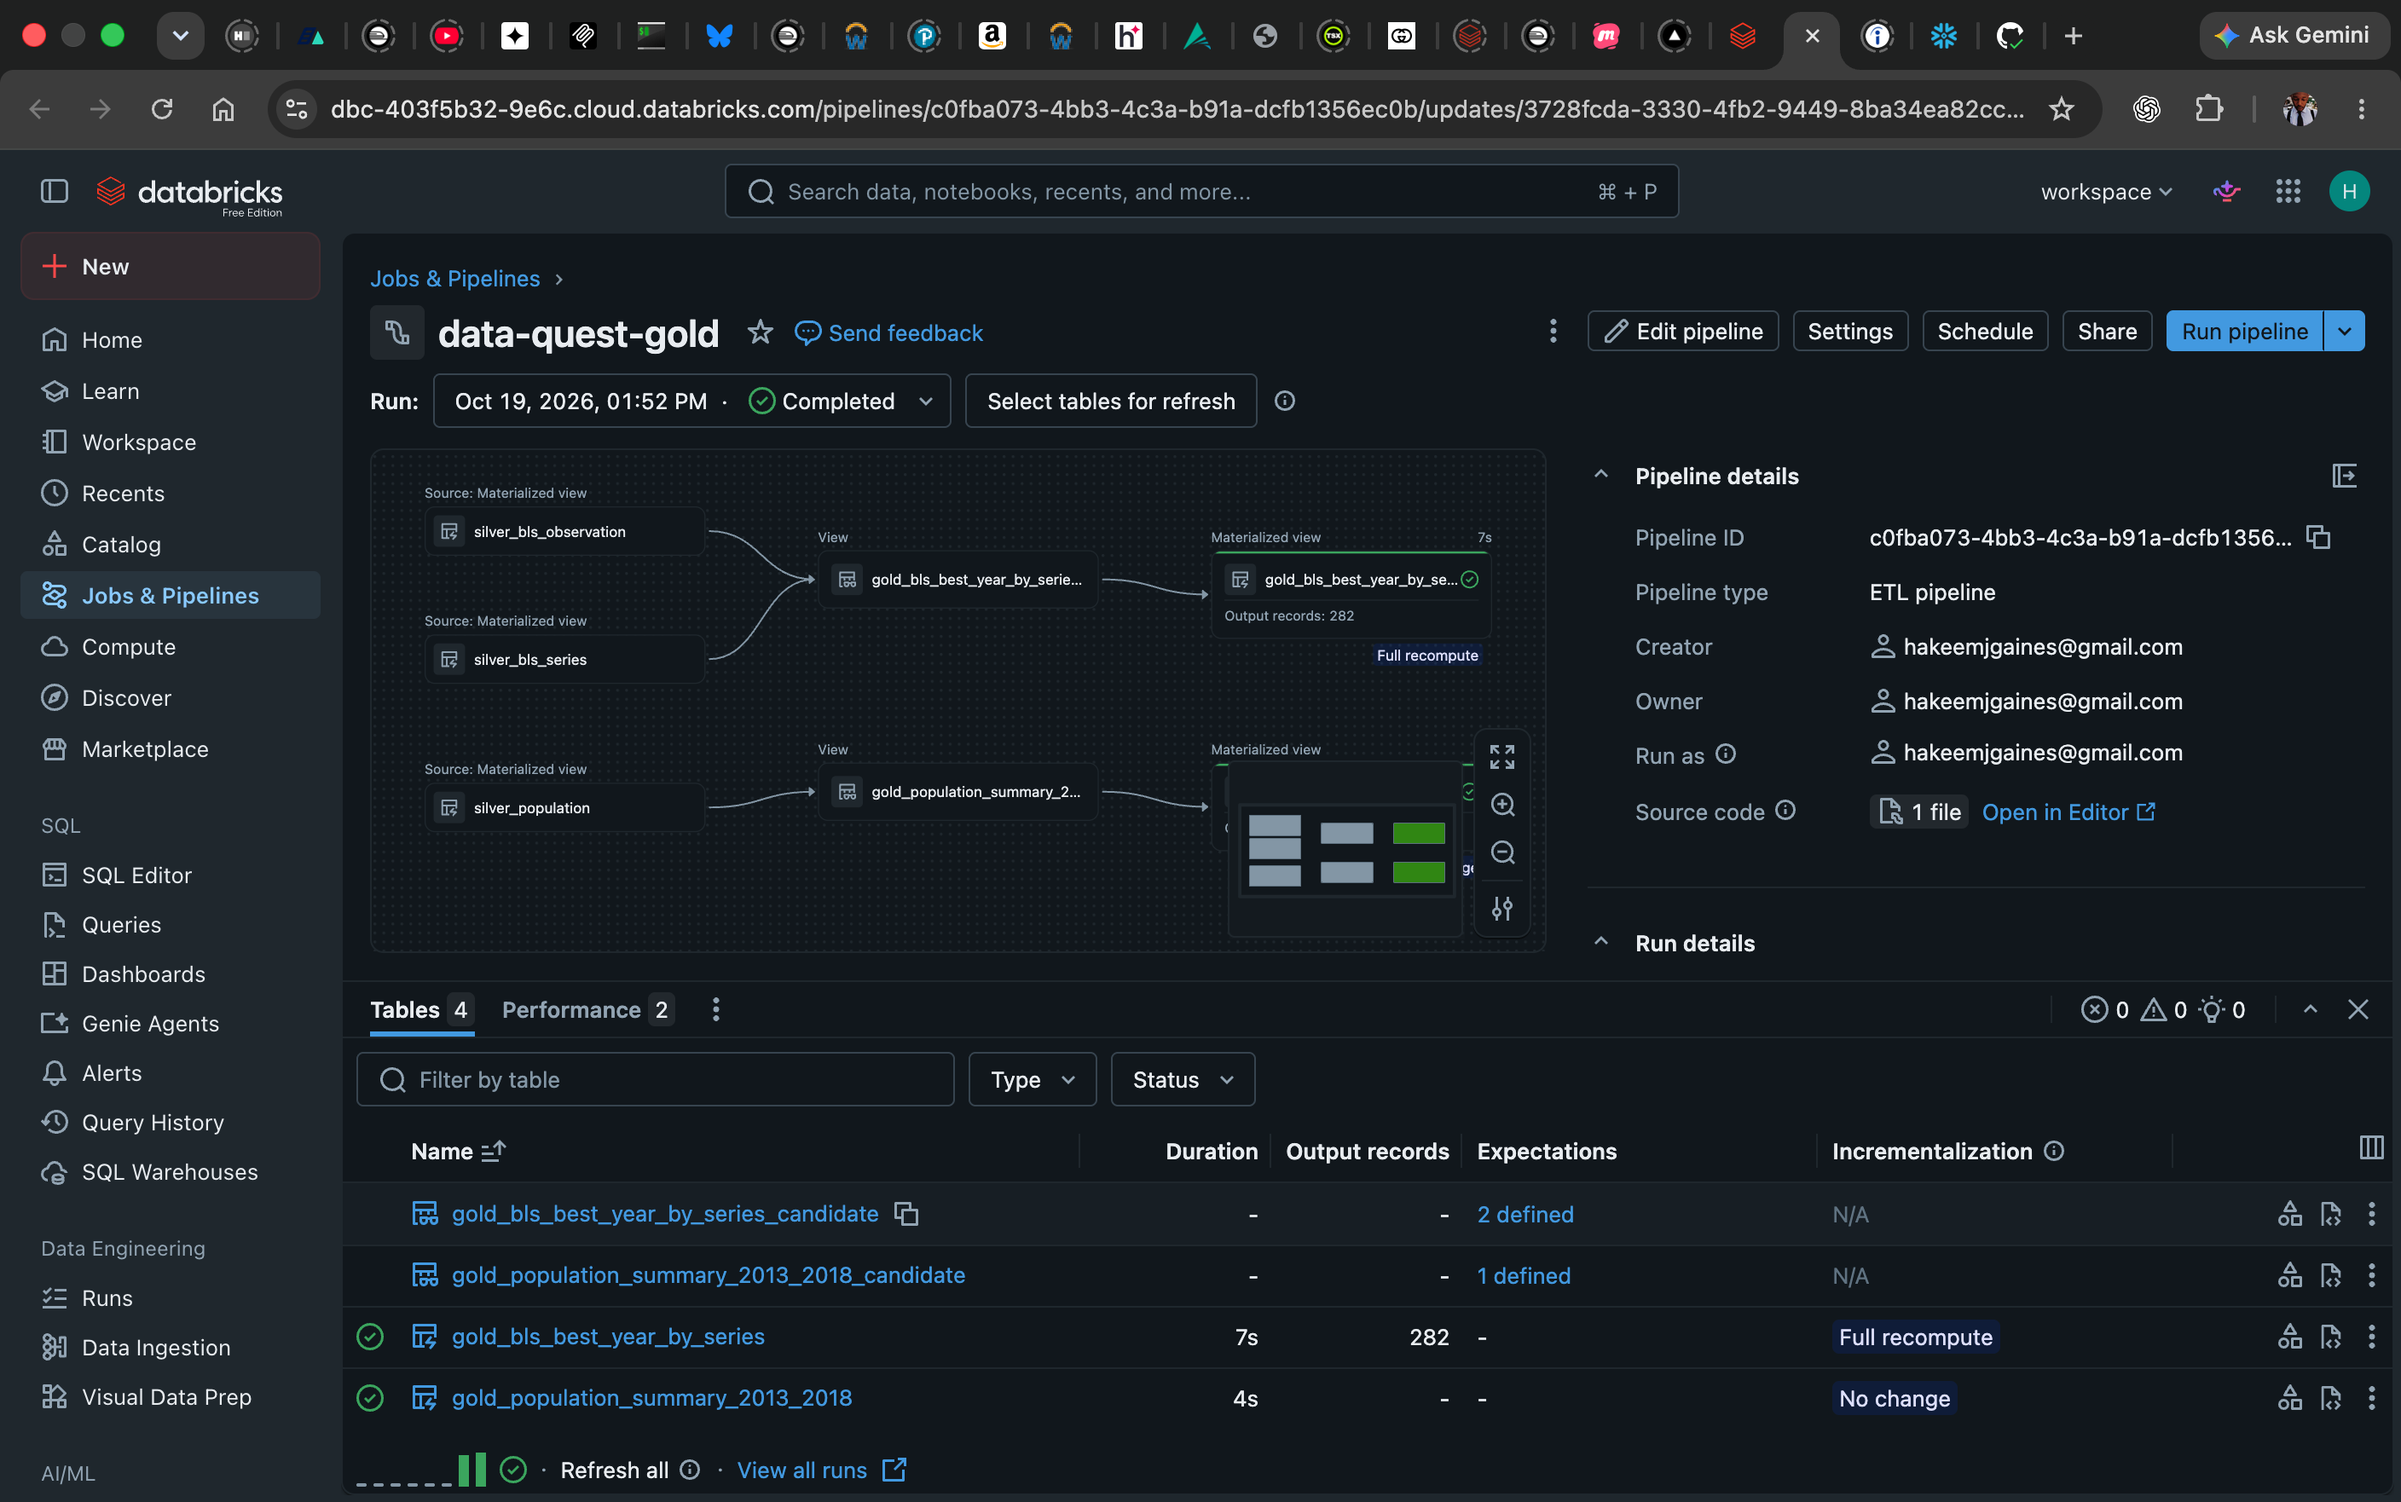
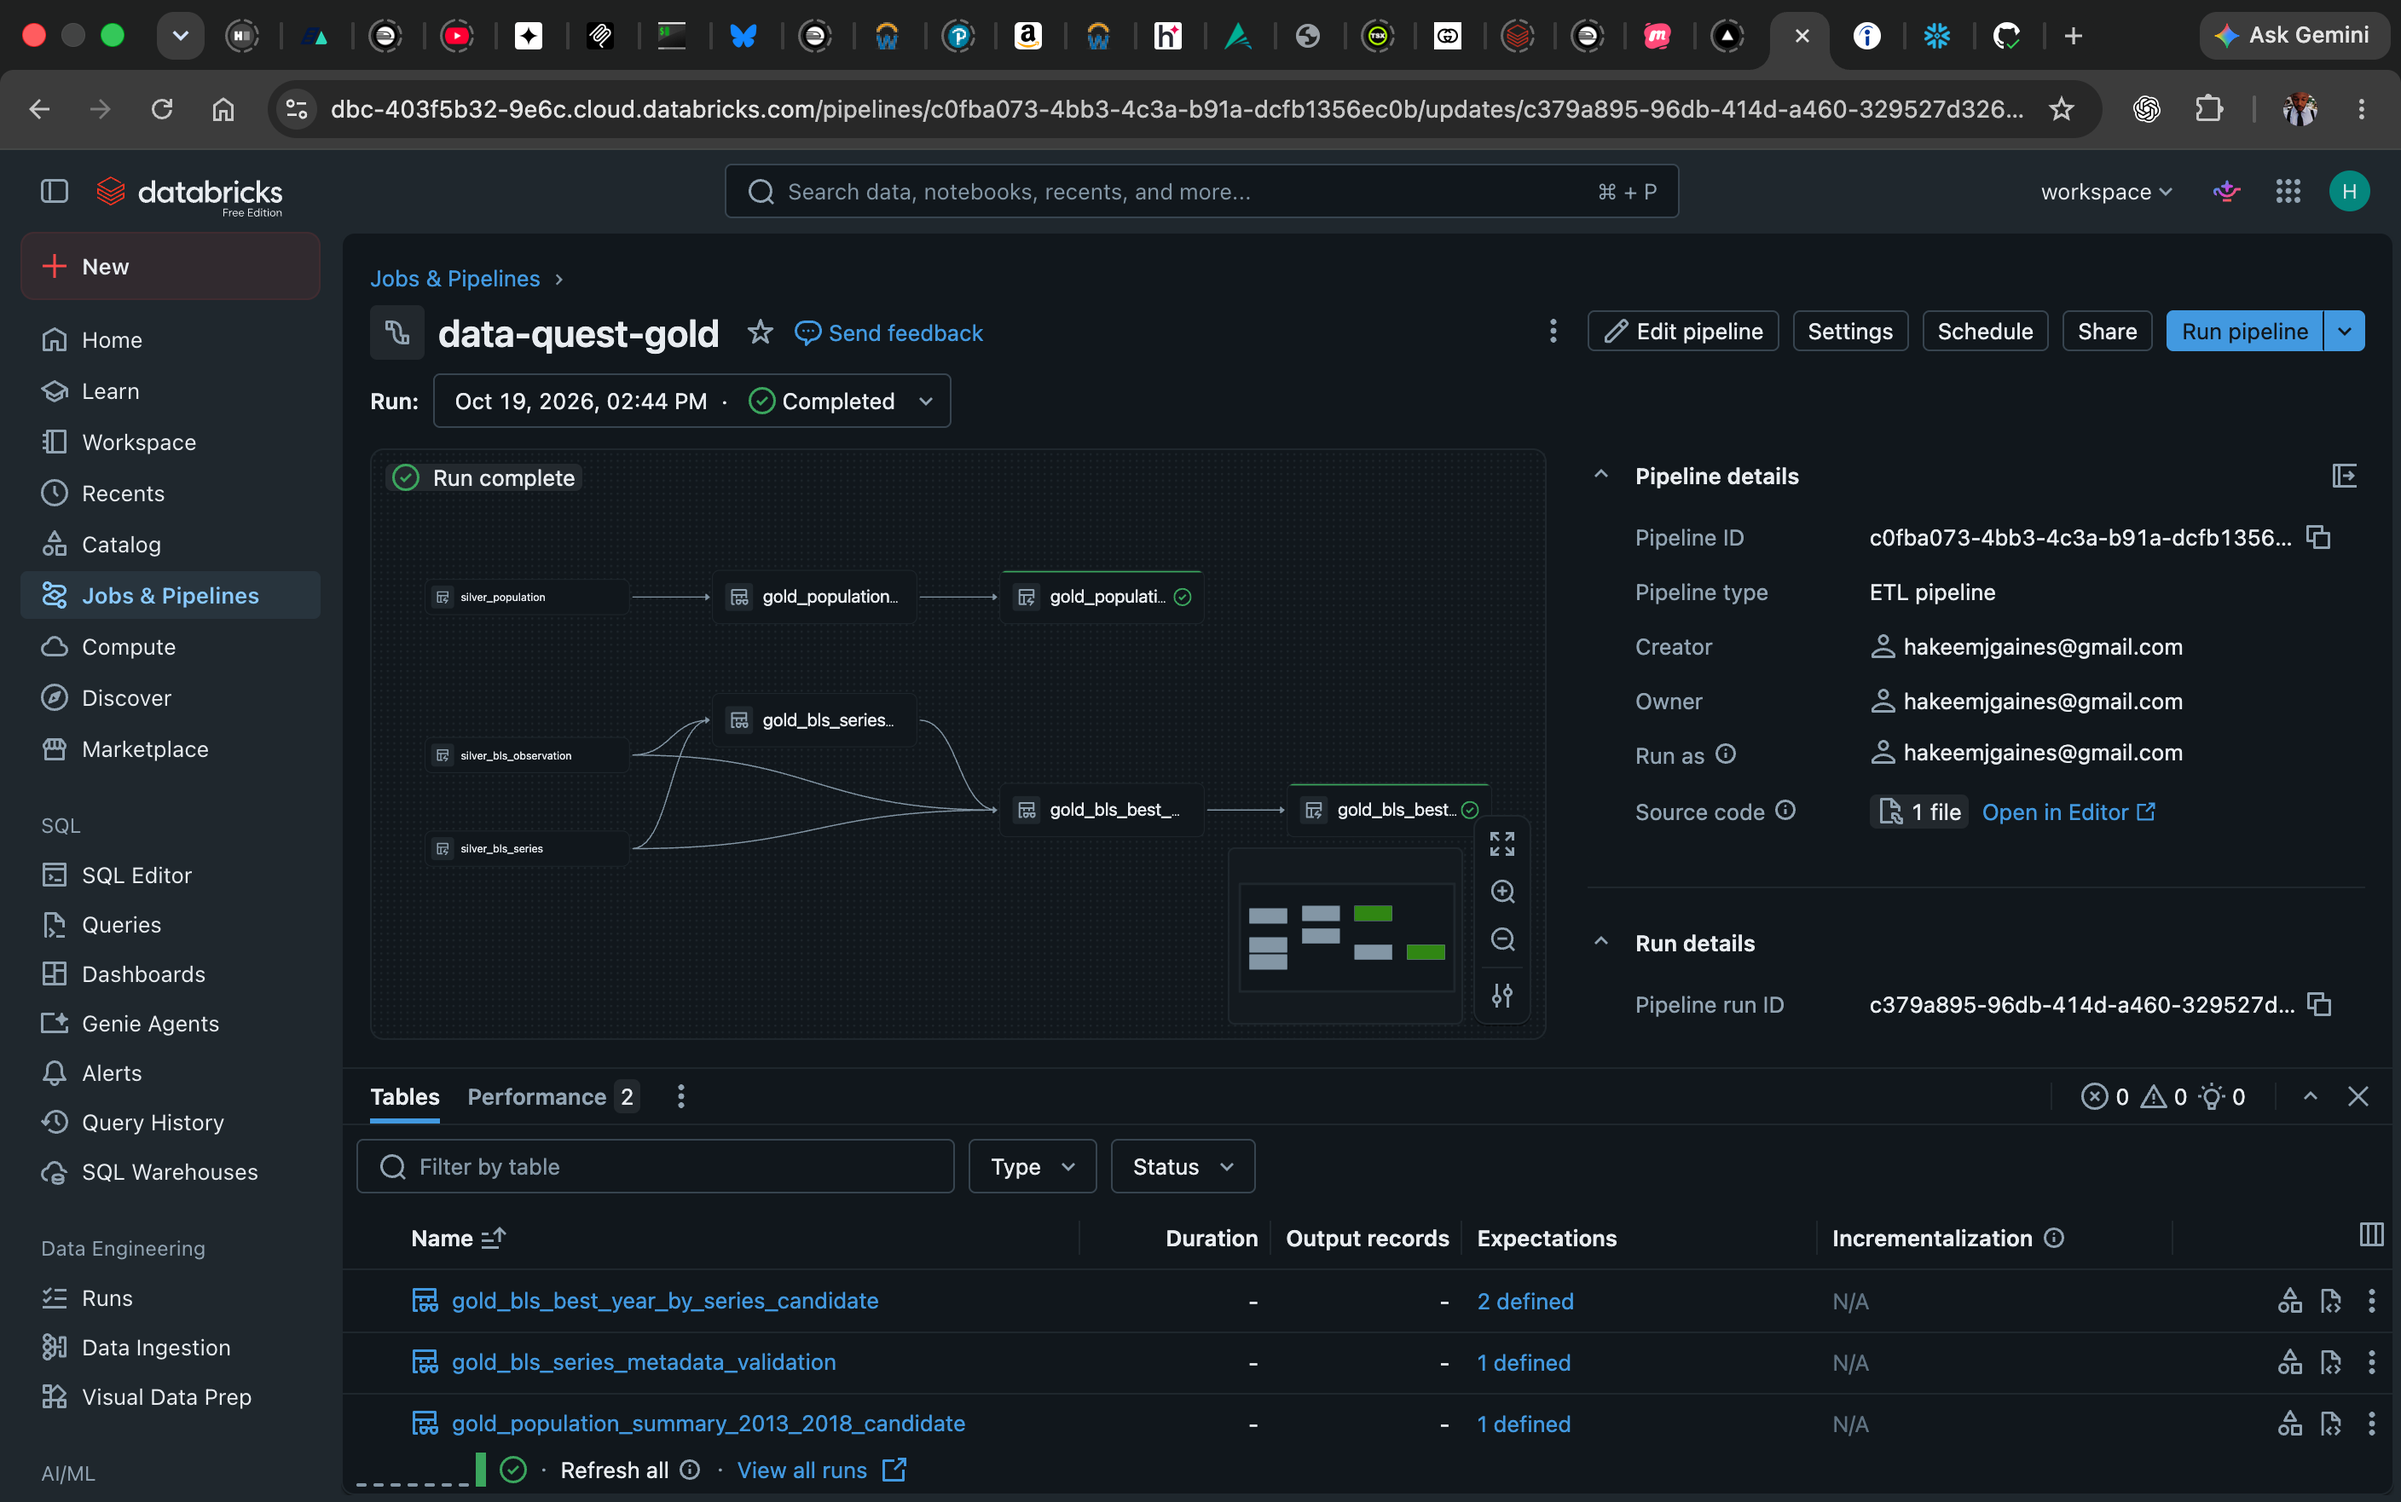
Record final DQ-17 validation evidence

diff --git a/docs/evidence/dq17_gold_bls_best_year_validation.md b/docs/evidence/dq17_gold_bls_best_year_validation.md
@@ -2,7 +2,7 @@
 
 ## Deployment identity
 
-- Git revision: `18a6992bd9050deab585d28a3cecd345658eaa85`
+- Git revision: `5009e0c2c2fea025b79df856c2026dffe1e232b7`
 - Branch: `codex/dq-17-bls-best-year`
 - Pipeline: `data-quest-gold`
 - Pipeline ID: `c0fba073-4bb3-4c3a-b91a-dcfb1356ec0b`
@@ -15,11 +15,17 @@ Git commit identity.
 
 ## Pipeline result
 
-The triggered Gold update completed with zero displayed errors or warnings.
+The final triggered Gold update completed at 2:45 PM EDT with zero displayed
+errors or warnings.
 `gold_bls_best_year_by_series` published 282 rows while the existing population
 summary remained green and unchanged. The dependency graph shows validated
 `silver_bls_observation` and `silver_bls_series` feeding the candidate view and
 published materialized view.
+
+The final graph also contains `gold_bls_series_metadata_validation`, which
+requires every quarterly observation series to resolve to exactly one Silver
+metadata row before the Gold candidate can publish. Its fail-fast expectation
+passed as part of the completed update.
 
 Both candidate expectations used the `FAIL` action and recorded zero percent
 failures and zero failed records:
@@ -35,9 +41,10 @@ remain visible with null year and sum, count zero, and the flag set to false.
 
 ## Independent SQL parity
 
-The excluded, reviewer-visible
+After the metadata guard was added, the excluded, reviewer-visible
 `sql/alternatives/question_2_bls_best_year.sql` query ran successfully against
-the same governed Silver tables and returned 282 rows. A separate read-only
+the same governed Silver tables at 2:49 PM EDT and returned 282 rows without
+raising its orphan-series error. A separate read-only
 full-outer comparison used null-safe equality across the label, year, sum,
 observation count, and availability flag. It returned:
 
@@ -72,12 +79,13 @@ annual sums descending and years ascending, so the earliest year wins any tie.
 
 | Screenshot | SHA-256 |
 | --- | --- |
[11 lines of base64/hex data omitted]
 

diff --git a/PROCESS.md b/PROCESS.md
@@ -922,6 +922,34 @@ deviation. The completed update, graph, exact outputs, SQL execution,
 screenshot digests, and evidence limits are preserved in
 [`docs/evidence/dq16_gold_population_summary_validation.md`](docs/evidence/dq16_gold_population_summary_validation.md).
 
+### DQ-17: publish deterministic BLS best-year results
+
+Question 2 is implemented in both PySpark and Spark SQL from the governed
+Silver observation and series tables. Both versions include only `Q01` through
+`Q04`, sum values by series and year, rank the largest annual sum first, and
+select the earliest year when sums tie. The PySpark materialized view is the
+primary governed output. It starts from the complete 282-series metadata
+inventory so series without quarterly history remain visible with an explicit
+false status rather than disappearing.
+
+Review identified a cross-table integrity boundary that the original
+inventory-first joins could hide: a quarterly observation whose `series_id`
+did not resolve to metadata would be silently omitted. The final PySpark graph
+therefore contains a fail-fast metadata-validation view, and the standalone SQL
+alternative uses an equivalent `RAISE_ERROR` guard. Both require exactly one
+metadata row for every retained quarterly series before returning results.
+
+On October 19, 2026, the final `data-quest-gold` update completed in the target
+Databricks workspace with zero displayed errors or warnings. The metadata gate
+and both result expectations passed, and the published best-year table retained
+282 series. The guarded SQL alternative then completed with 282 rows. The
+earlier null-safe full-outer comparison found 282 SQL rows, 282 PySpark rows,
+and zero field-level mismatches; the guard changes failure behavior without
+changing valid calculations. An independent Silver query also reconciled
+`PRS30006032` year 1994 from four quarterly values to `14.600000`. The exact
+outputs, screenshots, digests, attribution boundary, and claim limits are in
+[`docs/evidence/dq17_gold_bls_best_year_validation.md`](docs/evidence/dq17_gold_bls_best_year_validation.md).
+
 ## Retrospective
 
 This section will be completed as the implementation develops. The environment phase reinforced the value of verifying platform capabilities and permissions before writing pipeline code.

diff --git a/REQUIREMENTS_CHECKLIST.md b/REQUIREMENTS_CHECKLIST.md
@@ -255,16 +255,16 @@ check passing and no unexplained discrepancy.
 **Priority:** Required  
 **Depends on:** DQ-12, DQ-13
 
-- [ ] Filter to quarterly periods `Q01` through `Q04`; explicitly exclude `Q05` because it is an annual average, not an additional quarter.
-- [ ] Sum quarterly `value` by `series_id` and year.
-- [ ] Select the largest annual sum for every series in Spark SQL.
-- [ ] Implement the same logic with the PySpark DataFrame API.
-- [ ] Break ties deterministically by selecting the earliest tied year.
-- [ ] Include the human-readable series label.
-- [ ] Reconcile the expected series inventory and visibly flag a series with no quarterly observations rather than silently omitting it.
-- [ ] Compare both implementations and designate the primary Gold-table version.
+- [x] Filter to quarterly periods `Q01` through `Q04`; explicitly exclude `Q05` because it is an annual average, not an additional quarter.
+- [x] Sum quarterly `value` by `series_id` and year.
+- [x] Select the largest annual sum for every series in Spark SQL.
+- [x] Implement the same logic with the PySpark DataFrame API.
+- [x] Break ties deterministically by selecting the earliest tied year.
+- [x] Include the human-readable series label.
+- [x] Reconcile the expected series inventory and visibly flag a series with no quarterly observations rather than silently omitting it.
+- [x] Compare both implementations and designate the primary Gold-table version.
 
-**Done when:** Each series has a deterministic best year, annual sum, and readable label, with equivalent SQL and PySpark results.
+**Done when:** Each series has a deterministic best year, annual sum, and readable label, with equivalent SQL and PySpark results. The [completed Gold pipeline, metadata-resolution gate, SQL/PySpark parity comparison, and independent source calculation](docs/evidence/dq17_gold_bls_best_year_validation.md) establish the result for the validated snapshot.
 
 ### DQ-18: Answer Question 3 in Spark SQL and PySpark
 

diff --git a/docs/screenshots/README.md b/docs/screenshots/README.md
@@ -130,18 +130,20 @@ and claim boundaries are in
 
 ## DQ-17 Gold BLS best-year evidence
 
-- `dq17_gold_run_completed.png`: completed Gold update, four discovered objects,
-  282 published best-year rows, and zero displayed errors or warnings.
+- `dq17_gold_run_completed.png`: completed final Gold update with the metadata
+  validation dependency and zero displayed errors or warnings.
 - `dq17_gold_expectations.png`: both candidate expectations using the fail
   action with zero percent failures and zero failed records.
+- `dq17_metadata_validation_run.png`: completed final update showing the new
+  metadata-validation view and its fail-fast expectation in the table list.
 - `dq17_gold_pipeline_graph.png`: both governed Silver sources feeding the
   candidate and published best-year materialized view.
 - `dq17_gold_result_labels.png`: 282-row result with provider-grounded labels,
   selected years, annual quarterly sums, and visibly retained null selections.
 - `dq17_gold_result_status.png`: quarterly counts and explicit observation
   availability flags, including the zero/false missing-history state.
-- `dq17_sql_result.png`: successful excluded Spark SQL alternative with 282 rows
-  and readable labels.
+- `dq17_sql_result.png`: successful final excluded Spark SQL alternative with
+  its orphan-series guard, 282 rows, and readable labels.
 - `dq17_sql_pyspark_parity.png`: read-only comparison returning 282 SQL rows,
   282 PySpark rows, and zero field-level mismatches.
 - `dq17_independent_spot_check.png`: direct four-quarter Silver observations for

diff --git a/docs/evidence/README.md b/docs/evidence/README.md
@@ -67,6 +67,6 @@ these exports support exact value inspection.
 ## DQ-17 Gold BLS best-year validation
 
 - `dq17_gold_bls_best_year_validation.md`: indexes the completed Gold update,
-  282-series inventory, zero-failure expectations, SQL/PySpark null-safe parity,
-  independent four-quarter source calculation, screenshot paths, and screenshot
-  SHA-256 digests.
+  282-series inventory, fail-fast metadata resolution, zero-failure
+  expectations, SQL/PySpark null-safe parity, independent four-quarter source
+  calculation, screenshot paths, and screenshot SHA-256 digests.
